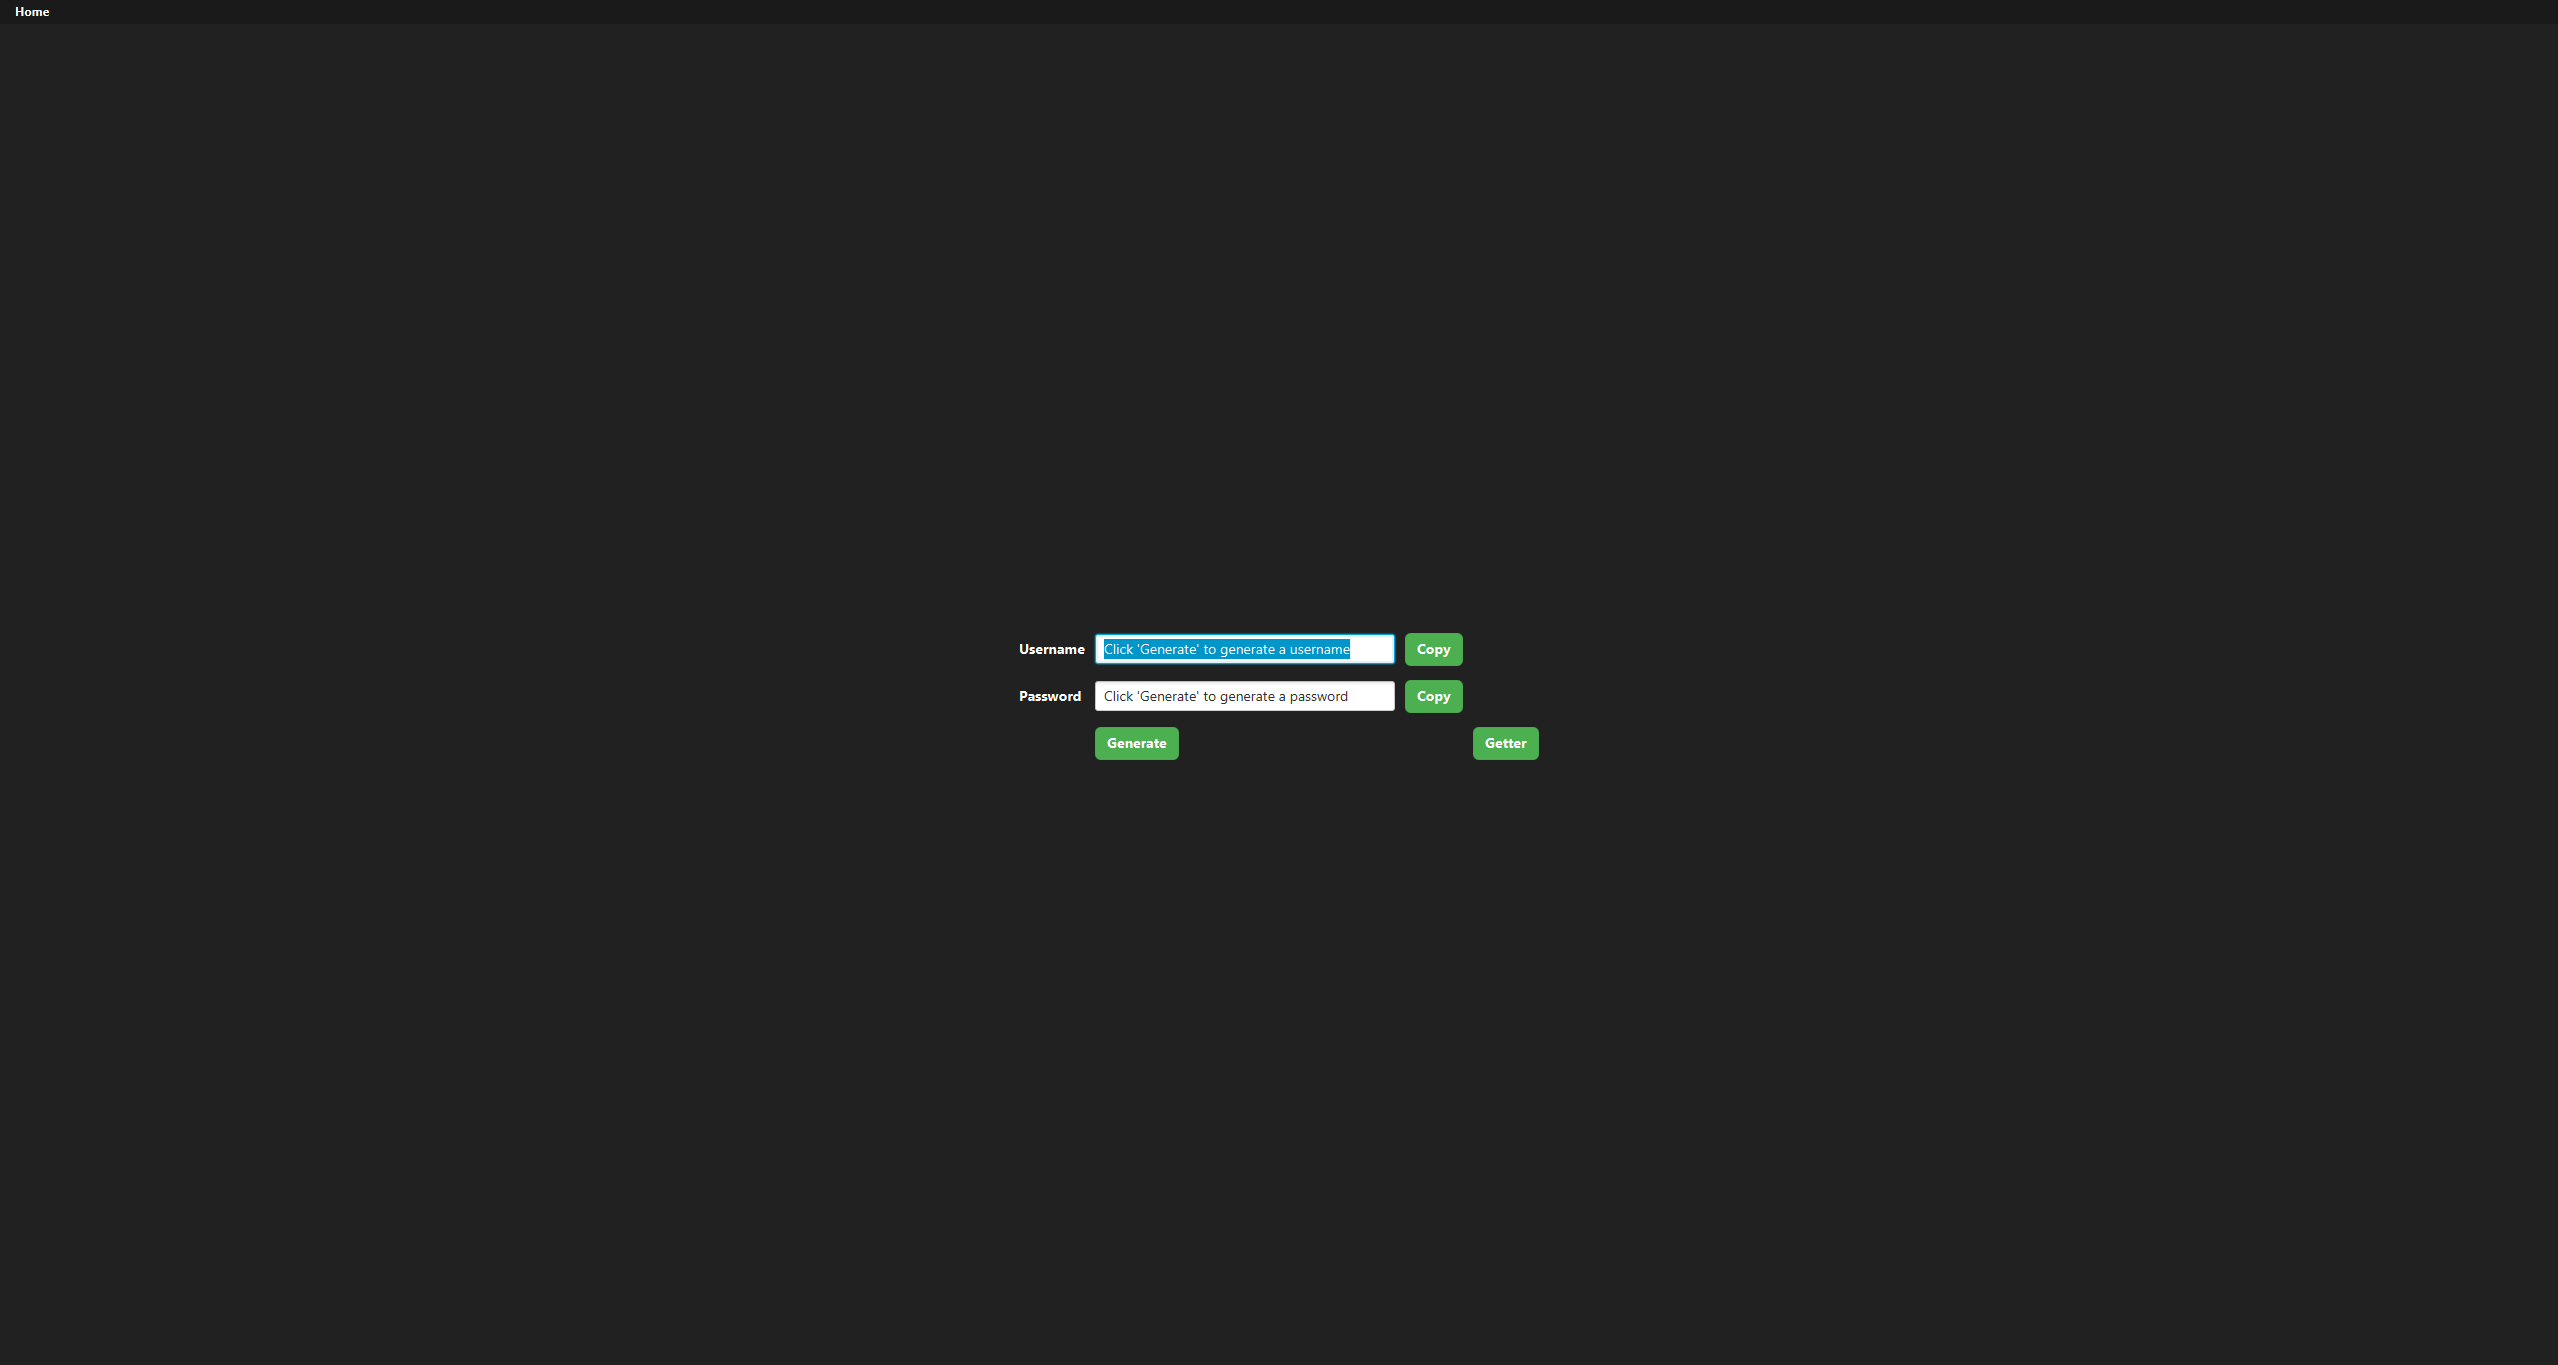
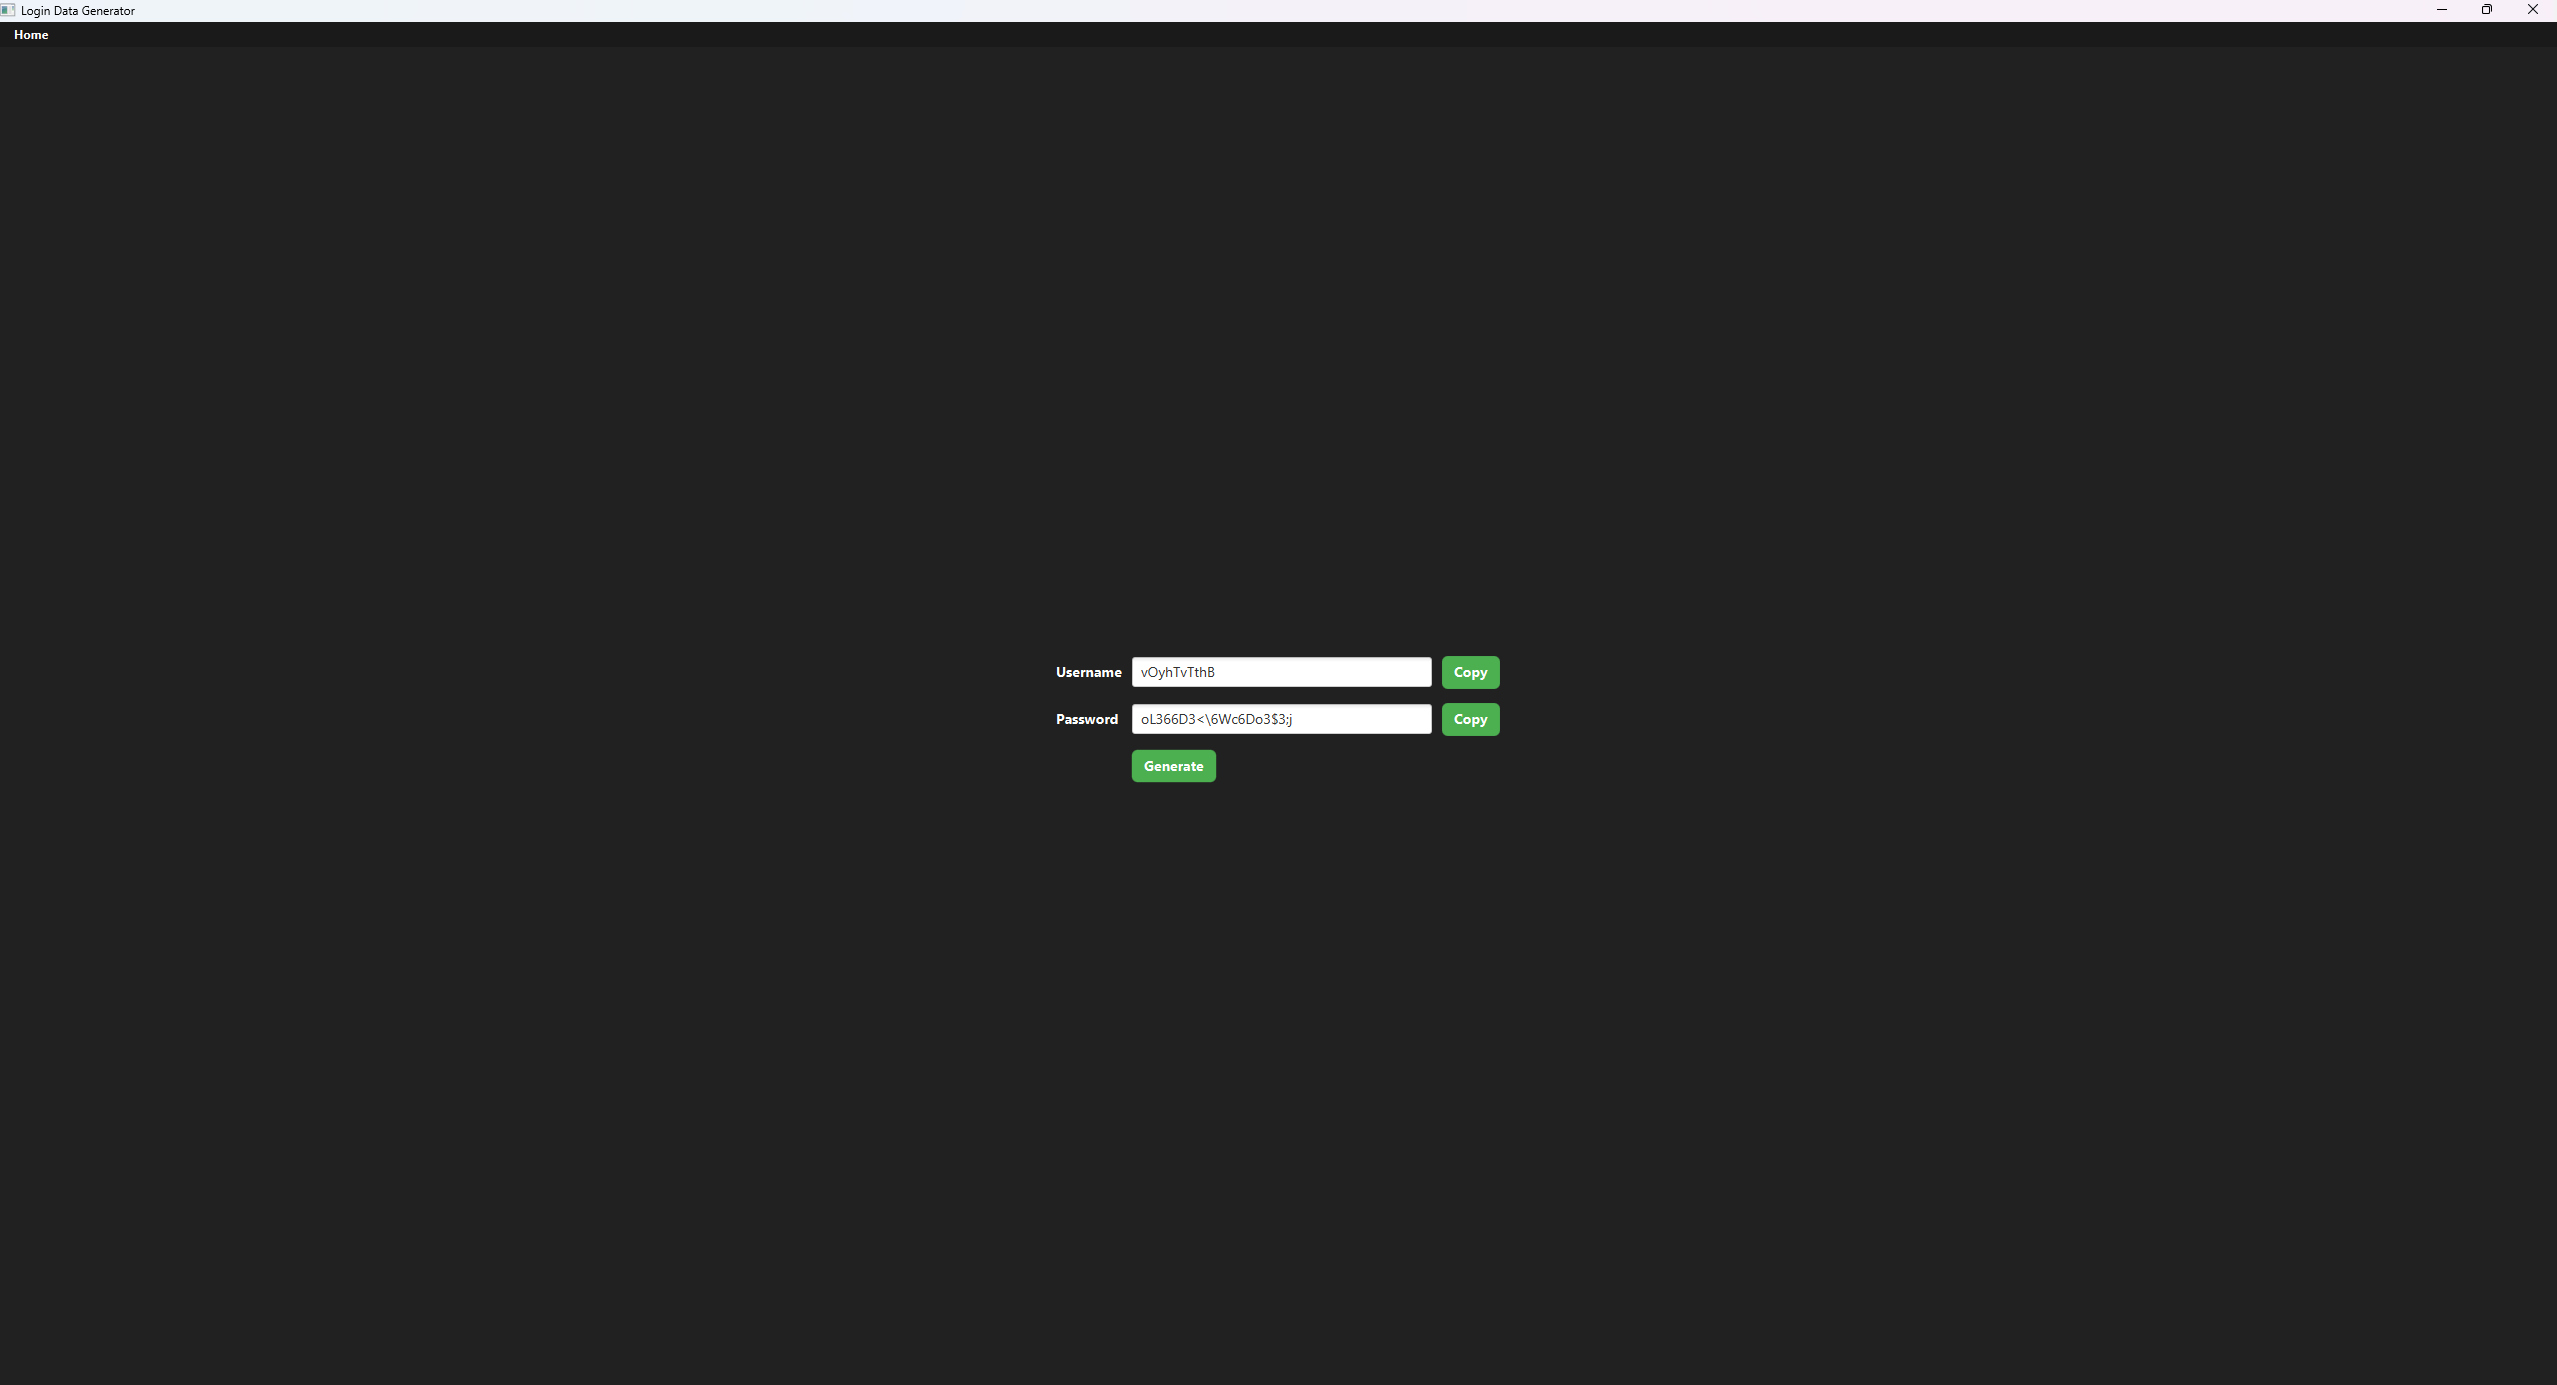
Added new preview image

Changed region(s): [[0.0, 0.0, 1.0, 0.0308], [0.4016, 0.4615, 0.6179, 0.5846]]

diff --git a/src/main/java/com/daknight/logindatagenerator/ui/grid/GridBuilder.java b/src/main/java/com/daknight/logindatagenerator/ui/grid/GridBuilder.java
@@ -101,7 +101,7 @@ public class GridBuilder {
         grid.add(password, 0, 1);
         grid.add(passwordBox, 1, 1);
         grid.add(generateButton, 1, 2);
-        grid.add(testButton, 2, 2);
+        // grid.add(testButton, 2, 2);
         grid.setAlignment(Pos.CENTER);
 
         return grid;
